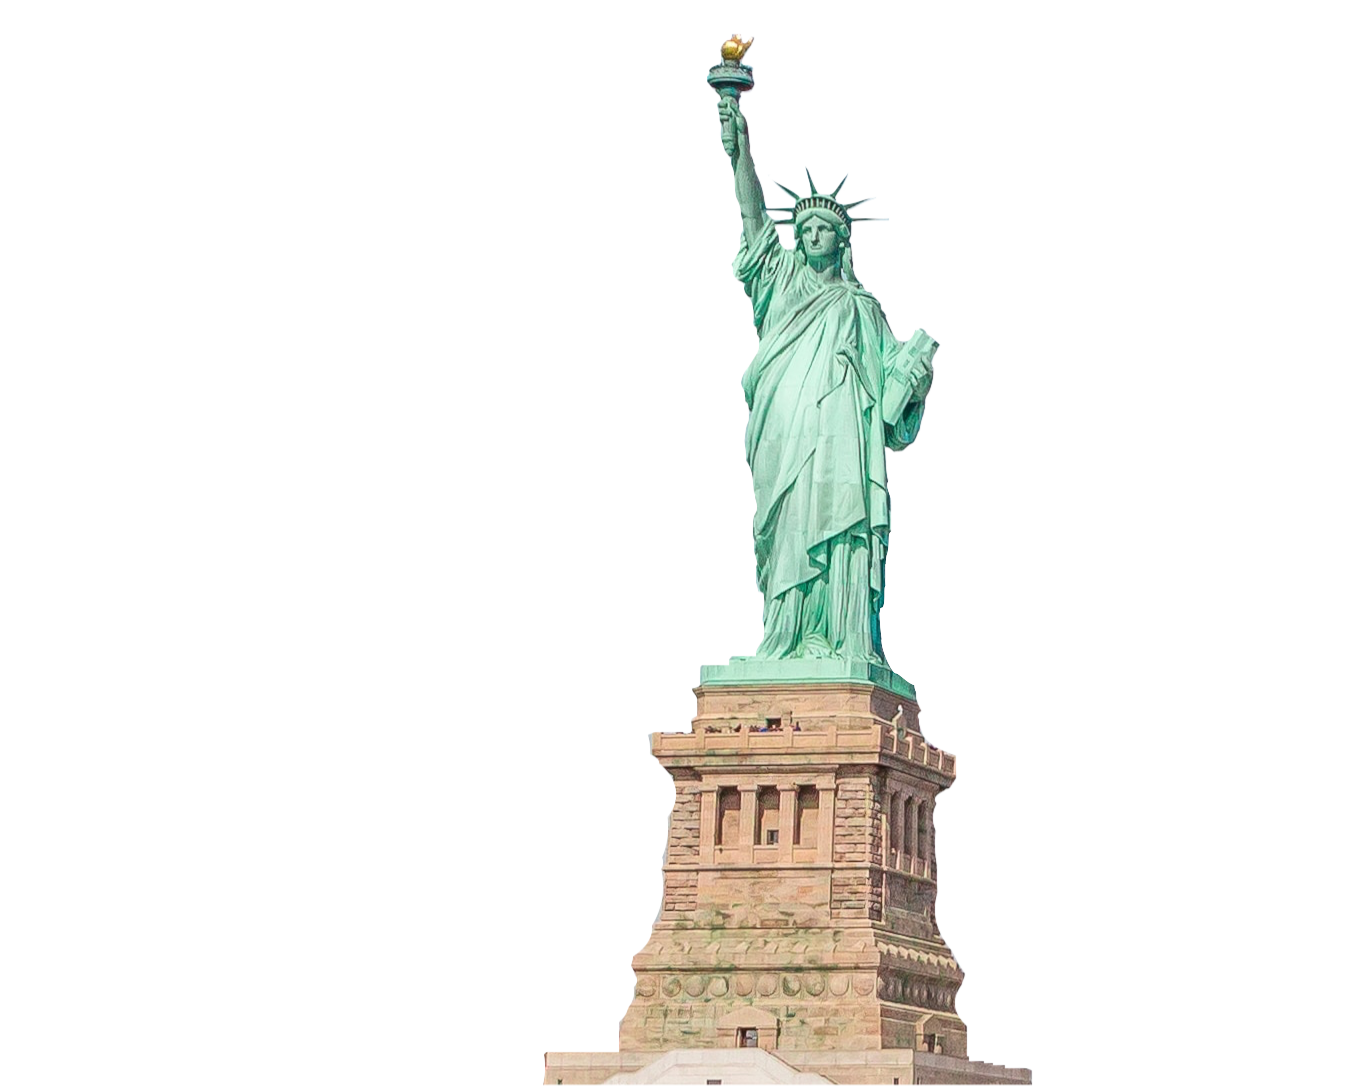
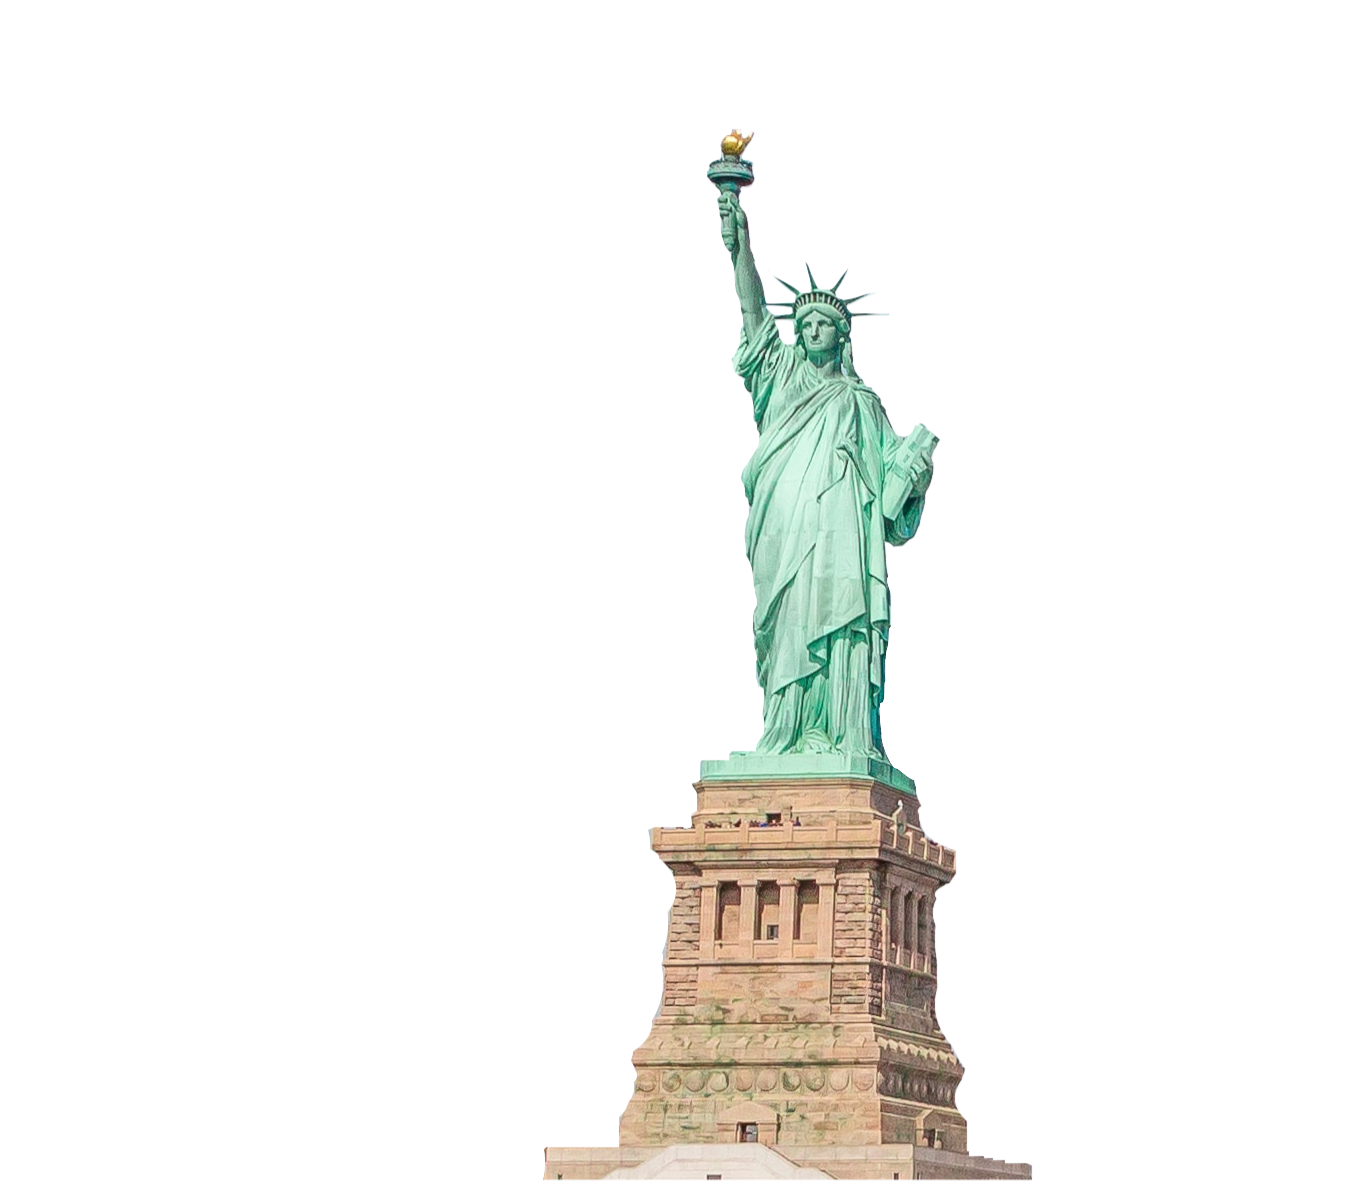
landing page

Changed region(s): [[0.4636, 0.0312, 0.7726, 1.0], [0.4018, 0.9688, 0.4636, 1.0]]

diff --git a/public/stylesheets/style.css b/public/stylesheets/style.css
@@ -188,8 +188,18 @@ body {
   -o-object-fit: contain;
   margin-left: 0 auto;
   margin-right: 0 auto;
-  margin-top: 3.5%;
-  padding-left: 35%;
+  padding-left: 25%;
+  padding-right: 10%;
+  filter:none !important;
+}
+#slider-images3{
+  /* height: 600px; */
+  -o-object-fit: contain;
+  margin-left: 0 auto;
+  margin-right: 0 auto;
+  margin-top: 1em;
+  padding-left: 10%;
+  padding-right: 5%;
   filter:none !important;
 }
 
@@ -531,12 +541,7 @@ font-size: 22px;
   .bottom-right{
     font-size: 25px;
   }
-  #caption-carousel h1{
-    font-size: 50px;
-  }
-  #caption-carousel h3{
-    font-size: 25px;
-  }
+
 
   /* end of carousel section */
   #request-service{
@@ -544,17 +549,29 @@ font-size: 22px;
     width: 200px;
     -o-object-fit: contain;
   }
+  #slider-images2{
+    margin-left: 15%;
+    padding-left: 0%;
+    padding-right:5%;
+    -o-object-fit: contain;
+  }
+  #slider-images3{
+    margin-left: 15%;
+    padding-left: 0%;
+    padding-right: 0%;
+    -o-object-fit: contain;
+  }
+  #searchbox{
+    width:60%;
+    margin-left: 9%;
+    padding-left: 22%;
+  }
   }
 @media (max-width: 768px) {
   .bottom-right{
     font-size: 20px;
   }
-  #caption-carousel h1{
-    font-size: 45px;
-  }
-  #caption-carousel h3{
-    font-size: 25px;
-  }
+
 
   #request-service{
     height: 100px;
@@ -568,9 +585,11 @@ font-size: 22px;
     font-size:40px;
   }
   #searchbox{
-    width:80%;
+    width:50%;
     padding-left:0%;
+    margin-left: 25%;
   }
+
   #countries{
     height: 230px;
     width: 150px;
@@ -583,17 +602,22 @@ font-size: 22px;
 }
 @media (max-width: 576px) {
 
-#caption-carousel h1{
-  font-size: 28px;
-}
-#caption-carousel h3{
-  font-size: 18px;
-}
-#searchbox{
-  width:250px;
-}
-#searchbox input{
-  font-size:12px;
+    #caption-carousel h1{
+      font-size: 22px;
+    }
+    #caption-carousel h2{
+      font-size: 16px;
+    }
+    #searchbox{
+        width:65%;
+        padding-left:0%;
+        padding-right: 0%;
+        margin-left: 18%;
+        margin-right: 25%;
+    }
+
+#searchbox input,#searchbox #search_btn{
+  font-size:9px;
 }
 #slider-images{
   height: 300px;
@@ -601,6 +625,16 @@ font-size: 22px;
 }
 #slider-images2{
   height: 300px;
+  margin-left: 15%;
+  padding-left: 0%;
+  padding-right:0%;
+  -o-object-fit: contain;
+}
+#slider-images3{
+  height: 300px;
+  margin-left: 15%;
+  padding-left: 0%;
+  padding-right: 0%;
   -o-object-fit: contain;
 }
 #heading{
